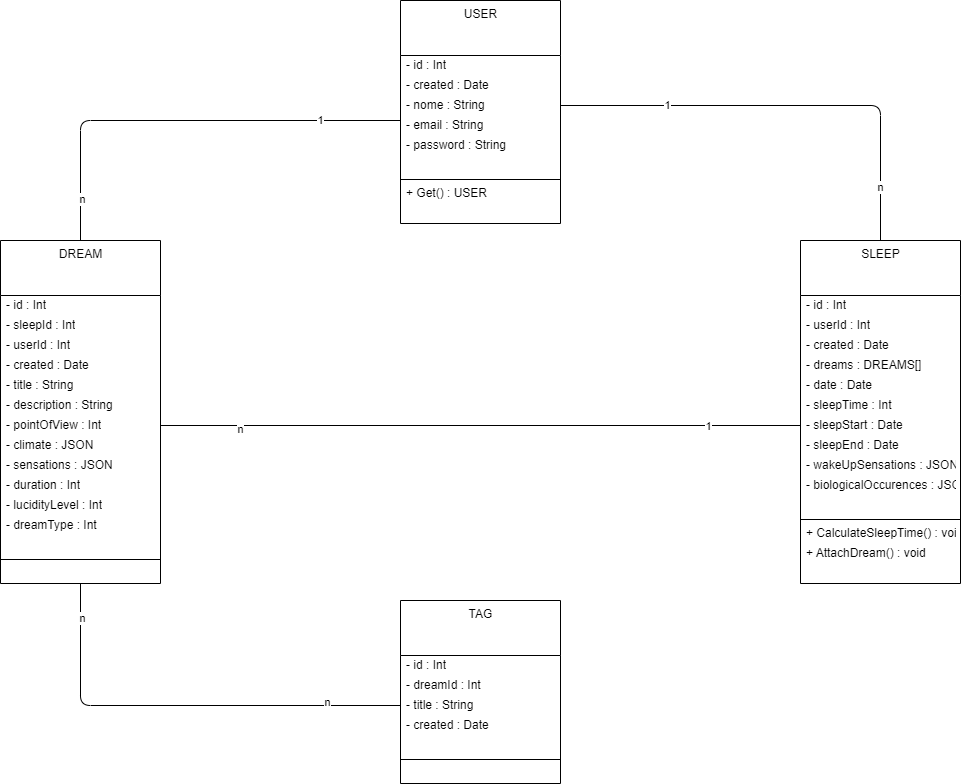
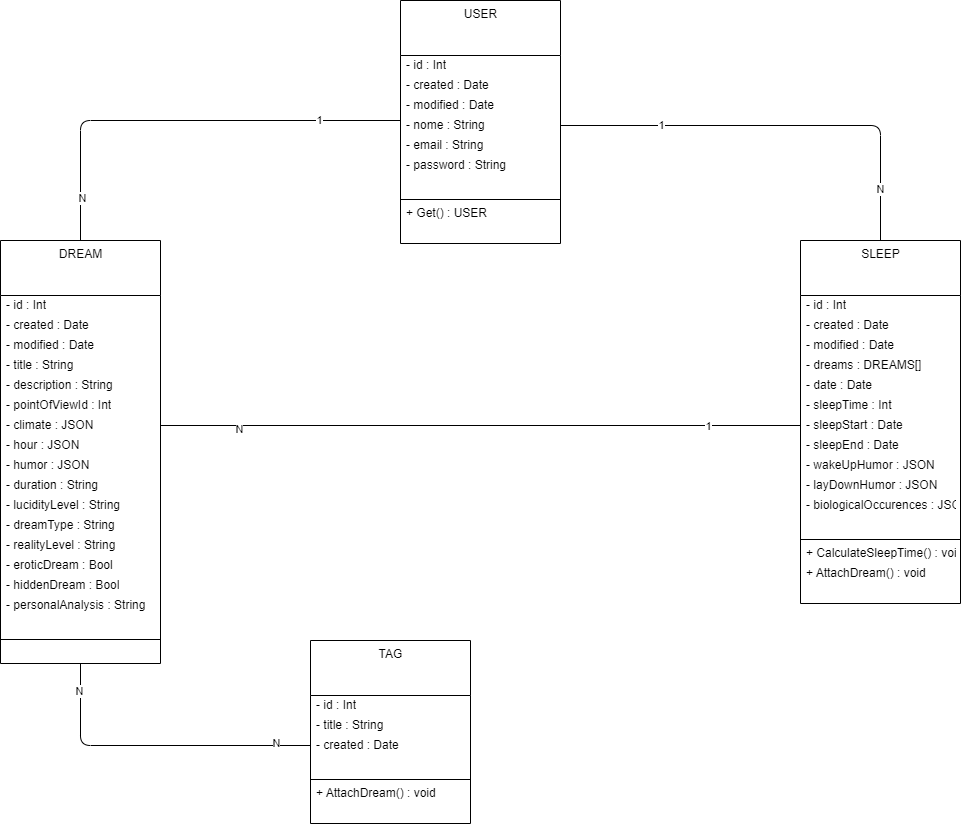
- Documentação atualizada.

diff --git a/docs/requisitos_funcionais.md b/docs/requisitos_funcionais.md
@@ -1,36 +1,51 @@
 // TODO: ajustar
-O usuário pode cadastrar informações de sua noite de sono;
-    Tempo de sono;
-    Horário aproximado que dormiu e acordou;
-    Sensações / Humor ao dormir e ao acordar (múltipla escolha);
-        Desconhecido / Indiferente / Cansaço / Ansiedade / Felicidade / Medo / Tristeza;
-    Ocorrências biológicas durante o sono;
-        Sudorese noturna;
-        Bruxismo noturno;
-        Apneia do sono;
-        Ronco;
-        Movimentos periódicos dos membros;
-        Despertares parciais;
-        Refluxo gastroesofágico noturno;
-        Sialorréia noturna (babar);
-        Arritmias noturnas;
-        Mioclonia noturna (espasmos);
-        Parassonia (sonambulismo, terror, fala);
-        Epistaxe noturna (sangrar o nariz);
-        Micção noturna involuntária;
-        Evacuação noturna involuntária;
-        Polução noturna;
-O usuário pode cadastrar um sonho;
-    Múltiplos sonhos podem ser cadastrados para uma mesma noite;
-    Definição de um título para o sonho;
-    Descrição do sonho;
-    Características do sonho;
-        Visão do sonho (1° / 2° / 3° pessoa);
-        Clima / Tempo (especificamente / múltiplos);
-        Sensações / Humor no sonho;
-        Duração aparente;
-        Nível de lucidez;
-        Tipo de sonho (sonho / pesadelo / indiferente);
-    Tags de um sonho (tags de um sonho servem para a menção de eventos, pessoas, animais e objetos, todas as tags de um sonho são interligadas e podem ser mencionadas em um próximo sonho, compondo um gráfico estatístico semanal / mensal / anual das tags mais mencionadas);
-O sistema fornece estatísticas sobre o ciclo de sono semanal / mensal / anual do usuário;
-O sistema fornece estatísticas sobre sonhos semanais / mensais / anuais do usuário;
+- **O usuário pode cadastrar informações de sua noite de sono;**
+    - Tempo de sono (horas);
+    - Horário de ir dormir (date);
+    - Horário de acordar (date);
+    - Humor ao dormir (múltipla escolha);
+        - Indefinido / Calmaria / Sono / Cansaço / Ansiedade / Felicidade / Medo / Tristeza / Outro;
+    - Humor ao acordar (múltipla escolha);
+        - Indefinido / Calmaria / Sono / Cansaço / Ansiedade / Felicidade / Medo / Tristeza / Outro;
+    - Ocorrências biológicas durante o sono (múltipla escolha);
+        - Sudorese noturna;
+        - Bruxismo noturno;
+        - Apneia do sono;
+        - Ronco;
+        - Movimentos periódicos dos membros;
+        - Despertares parciais;
+        - Refluxo gastroesofágico noturno;
+        - Sialorréia noturna (babar);
+        - Arritmias noturnas;
+        - Mioclonia noturna (espasmos);
+        - Parassonia (sonambulismo, terror, fala);
+        - Epistaxe noturna (sangrar o nariz);
+        - Micção noturna involuntária;
+        - Evacuação noturna involuntária;
+        - Polução noturna;
+- **O usuário pode cadastrar um sonho;**
+    - Múltiplos sonhos podem ser cadastrados para uma mesma noite;
+    - Definição de um título para o sonho;
+    - Descrição do sonho;
+    - Características do sonho;
+        - Visão do sonho (1° / 2° / 3° pessoa);
+        - Clima (múltipla escolha);
+            - Ameno / Calor / Garoa / Chuva / Tempestade / Névoa / Neve / Múltiplos / Outro / Indefinido;
+        - Horário;
+            - Amanhecer / Dia / Anoitecer / Noite / Indefinido / Múltiplos;
+        - Humor no sonho;
+            - Normal / Feliz / Triste / Raivoso / Nervoso / Assustado / Múltiplos / Indefinido;
+        - Duração;
+            - Instantâneo / Curto / Médio / Longo;
+        - Nível de lucidez;
+            - Não lúcido / Parcialmente lúcido / Lúcido / Indefinido;
+        - Tipo de sonho;
+            - Sonho / Pesadelo / Indefinido;
+        - Nível de realidade;
+            - Irreal / Parcialmente real / Real;
+        - Sonho erótico;
+    - Tags de um sonho (tags de um sonho servem para a menção de eventos, pessoas, animais e objetos, todas as tags de um sonho são interligadas e podem ser mencionadas em um próximo sonho, compondo um gráfico estatístico semanal / mensal / anual das tags mais mencionadas);
+    - Sonho oculto (borrar a descrição do sonho na listagem de sonhos);
+    - Análise pessoal / Comentário sobre o sonho;
+- **O sistema fornece estatísticas sobre o ciclo de sono semanal / mensal / anual do usuário;**
+- **O sistema fornece estatísticas sobre sonhos semanais / mensais / anuais do usuário;**
